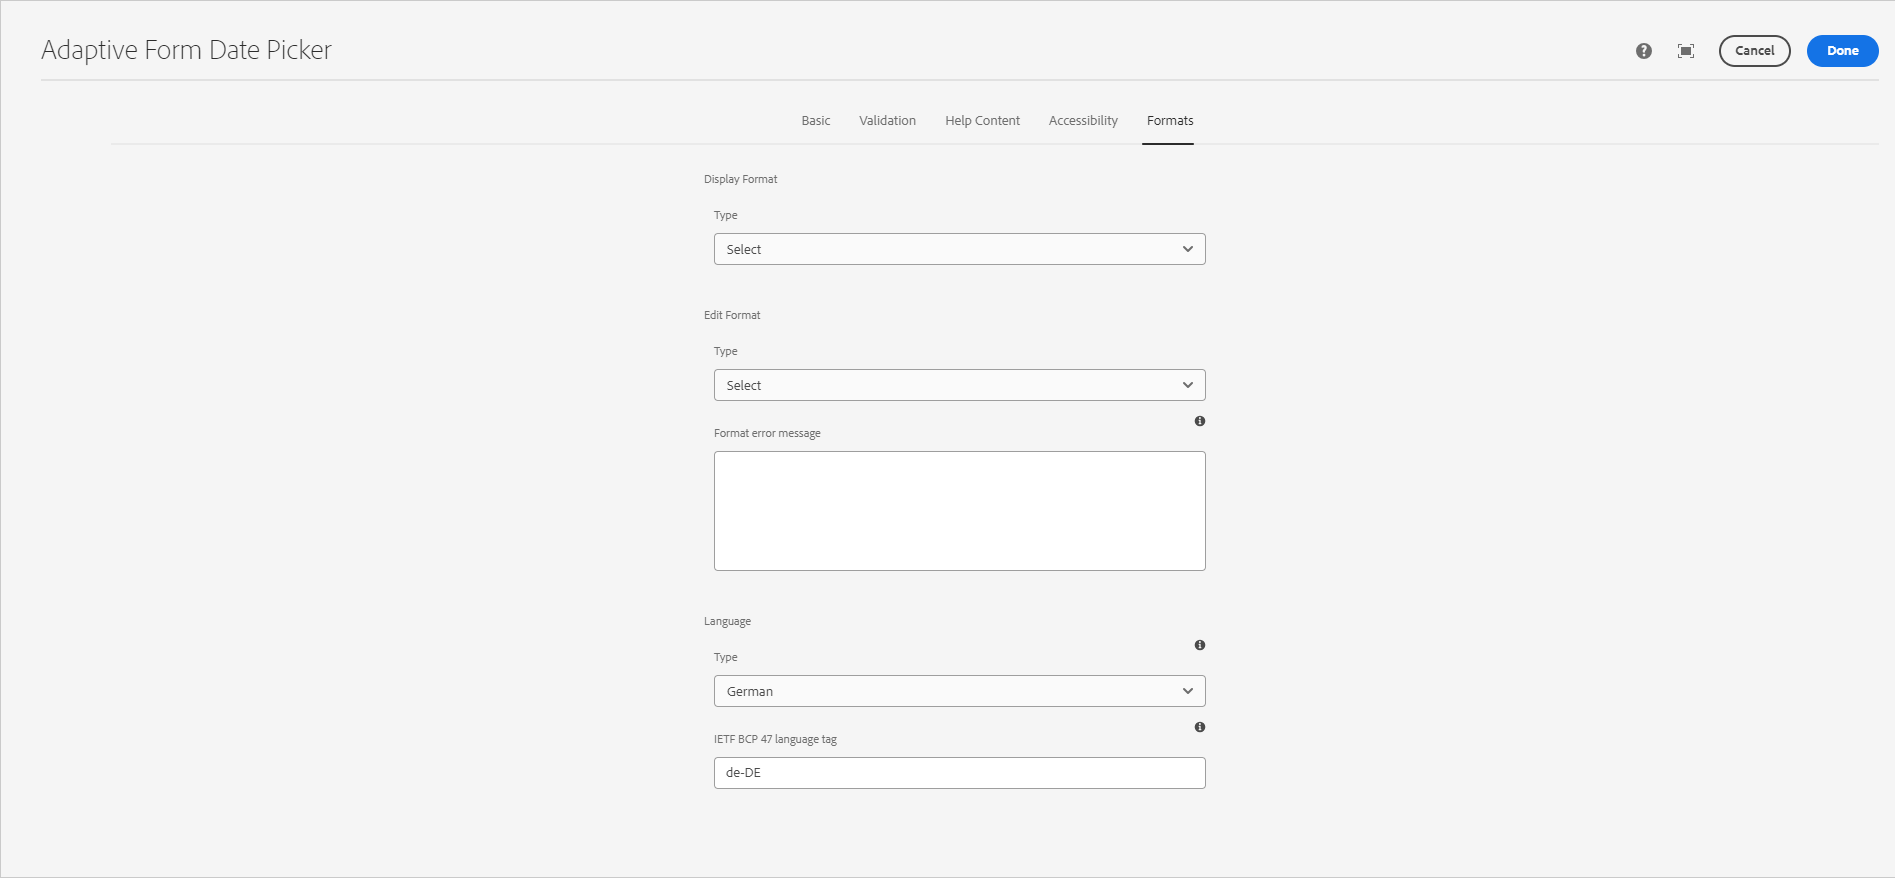
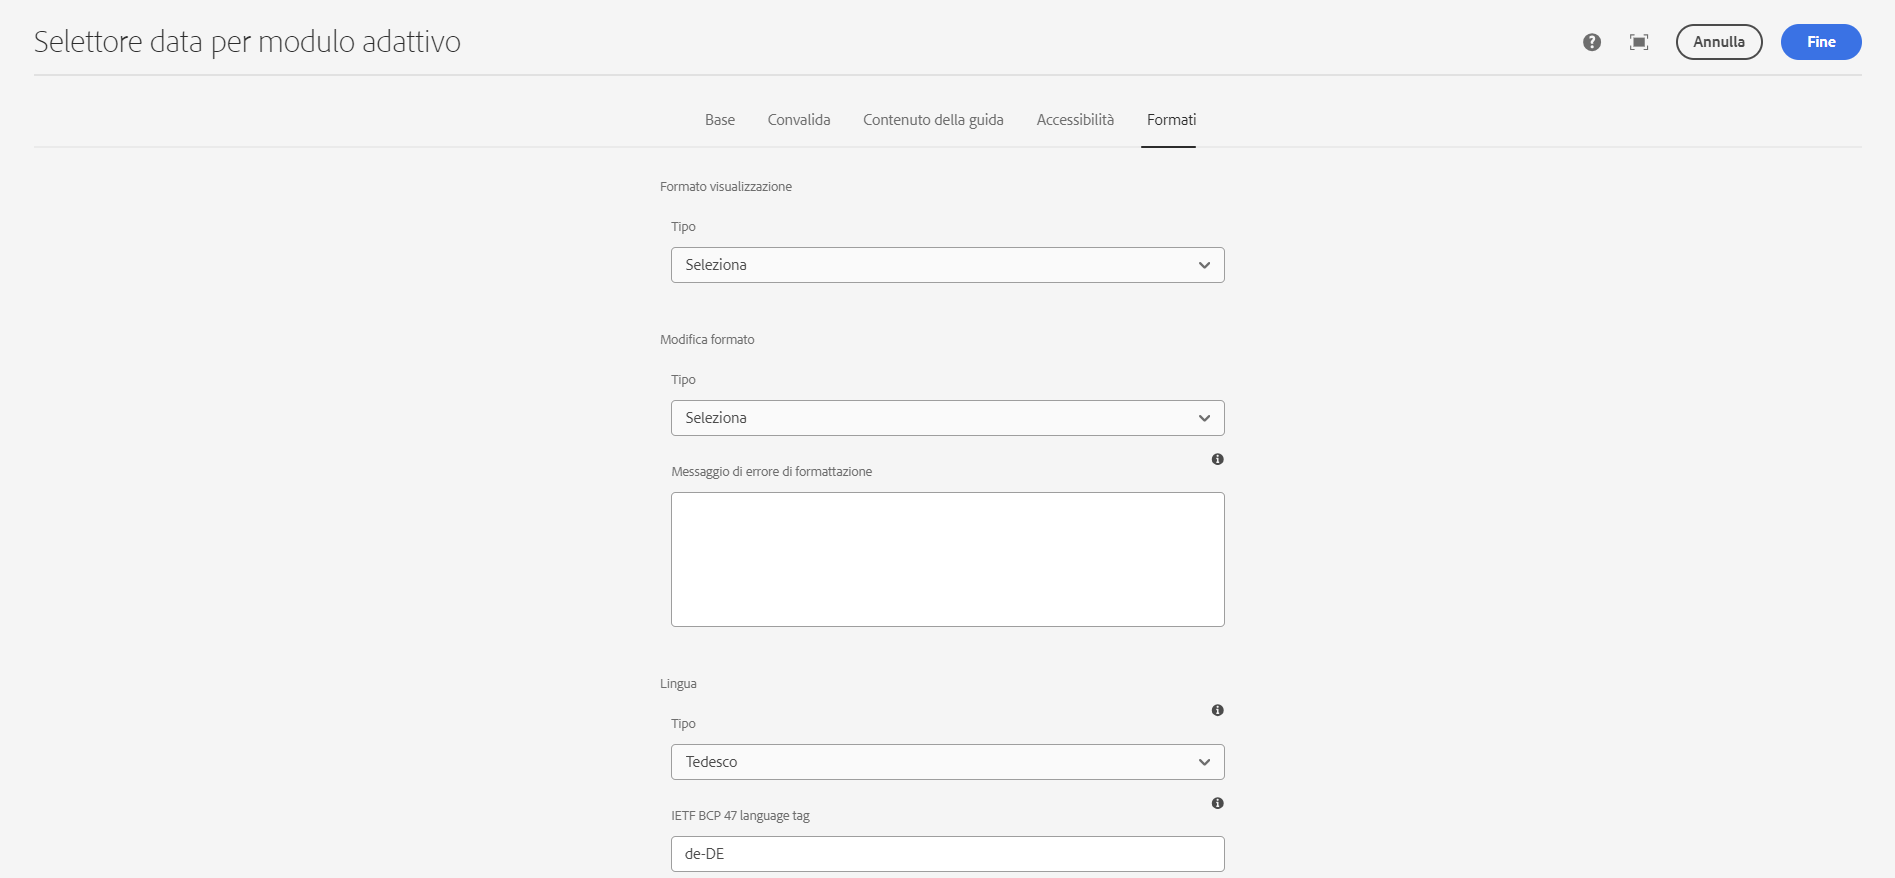
Updated by task 'AUTO_HANDOFF_1717677477673'  Changes for core/source commit https://git.corp.adobe.com/AdobeDocs/experience-manager-core-components.en/commit/b6ceef13539e7d2b3322df5a0b6369d114ae15b9

diff --git a/help/adaptive-forms/components/date-picker.md b/help/adaptive-forms/components/date-picker.md
@@ -4,9 +4,9 @@ description: Utilizzo o personalizzazione del componente core del selettore data
 role: Architect, Developer, Admin, User
 exl-id: aa9402de-ca57-4c19-8d36-2dd0a78d6806
 source-git-commit: b4a66a407e92398a98441c65ab588b9720777dfa
-workflow-type: tm+mt
+workflow-type: ht
 source-wordcount: '2299'
-ht-degree: 93%
+ht-degree: 100%
 
 ---
 
@@ -131,21 +131,21 @@ Puoi personalizzare facilmente l’esperienza del selettore data per gli utenti 
 - **Formato visualizzato**: rappresenta il formato della data visualizzato dall’utente. L’opzione **Tipo** consente all’utente di selezionare il formato della data. È inoltre possibile personalizzare il formato della data utilizzando l’opzione **Personalizza** nel menu a discesa **Tipo**.
 
 - **Modifica formato**: rappresenta un formato di data in cui l’utente può modificare la data. L’opzione **Tipo** consente all’utente di selezionare il formato della data. È inoltre possibile personalizzare il formato della data utilizzando l’opzione **Personalizza** nel menu a discesa **Tipo**.
-- **Messaggio di errore Formato** - Questa opzione consente di immettere il messaggio visualizzato sullo schermo quando la data immessa non è nel formato corretto.
-- **Lingua** - Questa funzione viene utilizzata per la formattazione del campo specifico. Quando un utente seleziona un’opzione di lingua dalla **Tipo** menu a discesa, il **Tag lingua IETF BCP 47** nel pannello. È possibile scegliere la lingua per la formattazione dei campi durante la traduzione di un modulo adattivo in una lingua specifica.
+- **Messaggio di errore di formattazione**: questa opzione consente di inserire il messaggio da visualizzare quando la data immessa non è nel formato corretto.
+- **Lingua**: questa funzione viene utilizzata per la formattazione del campo specifico. Quando un utente seleziona un’opzione di lingua dal menu a discesa **Tipo**, l’opzione **Tag lingua IETF BCP 47** viene visualizzato nel pannello. Puoi scegliere la lingua per la formattazione dei campi quando si traduce un modulo adattivo in una lingua specifica.
 
-Il set di lingue non è visibile per impostazione predefinita, ma gli utenti possono immettere un **Tag lingua IETF BCP 47** aggiornando il criterio del modello:
+Il set di lingue non è visibile per impostazione predefinita, ma gli utenti possono immettere un **Tag lingua IETF BCP 47** personalizzato aggiornando il criterio del modello:
 
 1. Apri il modello corrispondente associato a un modulo adattivo nell’editor di modelli.
 2. Seleziona il criterio esistente come `datepicker-default-policy` dal menu a discesa.
 
    ![Criterio modello selettore data](/help/adaptive-forms/assets/date-picker-template-policy.png)
 
-3. Clic **Fine**.
+3. Fai clic su **Fine**.
 
    >[!NOTE]
    >
-   > Per ulteriori informazioni su come tradurre un modulo adattivo in una lingua specifica, [fai clic qui](https://experienceleague.adobe.com/en/docs/experience-manager-cloud-service/content/forms/adaptive-forms-authoring/authoring-adaptive-forms-core-components/create-an-adaptive-form-on-forms-cs/supporting-new-language-localization-core-components).
+   > Per ulteriori informazioni su come tradurre un modulo adattivo in una lingua specifica, [fai clic qui](https://experienceleague.adobe.com/it/docs/experience-manager-cloud-service/content/forms/adaptive-forms-authoring/authoring-adaptive-forms-core-components/create-an-adaptive-form-on-forms-cs/supporting-new-language-localization-core-components).
 
 ## Finestra di dialogo per la progettazione {#design-dialog}
 

diff --git a/help/adaptive-forms/components/numeric-box.md b/help/adaptive-forms/components/numeric-box.md
@@ -4,9 +4,9 @@ description: Utilizzo o personalizzazione del componente core di inserimento num
 role: Architect, Developer, Admin, User
 exl-id: 75604ecf-1ec5-4e97-b934-d6ed49726147
 source-git-commit: b4a66a407e92398a98441c65ab588b9720777dfa
-workflow-type: tm+mt
+workflow-type: ht
 source-wordcount: '2283'
-ht-degree: 93%
+ht-degree: 100%
 
 ---
 
@@ -127,7 +127,7 @@ Puoi personalizzare facilmente l’esperienza di inserimento numerico per i visi
 ![Scheda Accessibilità](/help/adaptive-forms/assets/numberinput_formattab.png)
 
 - **Formato visualizzato**: questa opzione consente di selezionare un’opzione tra diversi formati numerici interi da visualizzare. Quando l’utente seleziona una qualsiasi opzione dal menu a discesa **Tipo**, l’opzione **Formato** diventa visibile nel pannello. È possibile scegliere un formato specifico in cui i numeri vengono mostrati all’utente.
-- **Lingua** - Questa funzione viene utilizzata per la formattazione del campo specifico. Quando un utente seleziona un’opzione di lingua dalla **Tipo** menu a discesa, il **Tag lingua IETF BCP 47** nel pannello. È possibile scegliere la lingua per la formattazione dei campi durante la traduzione di un modulo adattivo in una lingua specifica.
+- **Lingua**: questa funzione viene utilizzata per la formattazione del campo specifico. Quando un utente seleziona un’opzione di lingua dal menu a discesa **Tipo**, l’opzione **Tag lingua IETF BCP 47** viene visualizzata nel pannello. Puoi scegliere la lingua per la formattazione dei campi quando si traduce un modulo adattivo in una lingua specifica.
 
 Il set di lingue non è visibile per impostazione predefinita, ma gli utenti possono immettere un **Tag lingua IETF BCP 47** aggiornando il criterio del modello:
 
@@ -136,11 +136,11 @@ Il set di lingue non è visibile per impostazione predefinita, ma gli utenti pos
 
    ![Criterio modello selettore data](/help/adaptive-forms/assets/numberinput-template-policy.png)
 
-3. Clic **Fine**.
+3. Fai clic su **Fine**.
 
    >[!NOTE]
    >
-   > Per ulteriori informazioni su come tradurre un modulo adattivo in una lingua specifica, [fai clic qui](https://experienceleague.adobe.com/en/docs/experience-manager-cloud-service/content/forms/adaptive-forms-authoring/authoring-adaptive-forms-core-components/create-an-adaptive-form-on-forms-cs/supporting-new-language-localization-core-components).
+   > Per ulteriori informazioni su come tradurre un modulo adattivo in una lingua specifica, [fai clic qui](https://experienceleague.adobe.com/it/docs/experience-manager-cloud-service/content/forms/adaptive-forms-authoring/authoring-adaptive-forms-core-components/create-an-adaptive-form-on-forms-cs/supporting-new-language-localization-core-components).
 
 
 ## Finestra di dialogo per la progettazione {#design-dialog}

diff --git a/help/adaptive-forms/components/phone.md b/help/adaptive-forms/components/phone.md
@@ -4,16 +4,16 @@ description: Utilizzo o personalizzazione del componente core per l’inseriment
 role: Architect, Developer, Admin, User
 exl-id: d06179ac-04bd-4af4-b6ac-c4c78086058c
 source-git-commit: b4a66a407e92398a98441c65ab588b9720777dfa
-workflow-type: tm+mt
+workflow-type: ht
 source-wordcount: '2197'
-ht-degree: 99%
+ht-degree: 100%
 
 ---
 
 
 # Componente telefono{#telephone-input-adaptive-forms-core-component}
 
-Il componente core Telefono modulo adattivo consente agli utenti di inserire un numero di telefono. Nel campo del numero di telefono, se utilizziamo dispositivi mobili, sono visualizzate le tastiere per inserire il numero di telefono. Il campo può essere personalizzato con attributi aggiuntivi quali “pattern” e “segnaposto” per specificare il formato e la descrizione del numero di telefono.
+Il componente core Telefono per i moduli adattivi consente agli utenti di inserire un numero di telefono. Nel campo del numero di telefono, se utilizziamo dispositivi mobili, sono visualizzate le tastiere per inserire il numero di telefono. Il campo può essere personalizzato con attributi aggiuntivi quali “pattern” e “segnaposto” per specificare il formato e la descrizione del numero di telefono.
 
 Il campo del numero di telefono viene comunemente utilizzato nei moduli di contatto, nei moduli di registrazione e in altri moduli in cui è richiesto un numero telefonico come mezzo di contatto. Il campo del numero di telefono può essere utilizzato anche per garantire che l’utente immetta un numero di telefono valido, in quanto il browser può applicare determinati vincoli, come la lunghezza e il formato del numero di telefono, in base all’attributo “pattern”.
 
